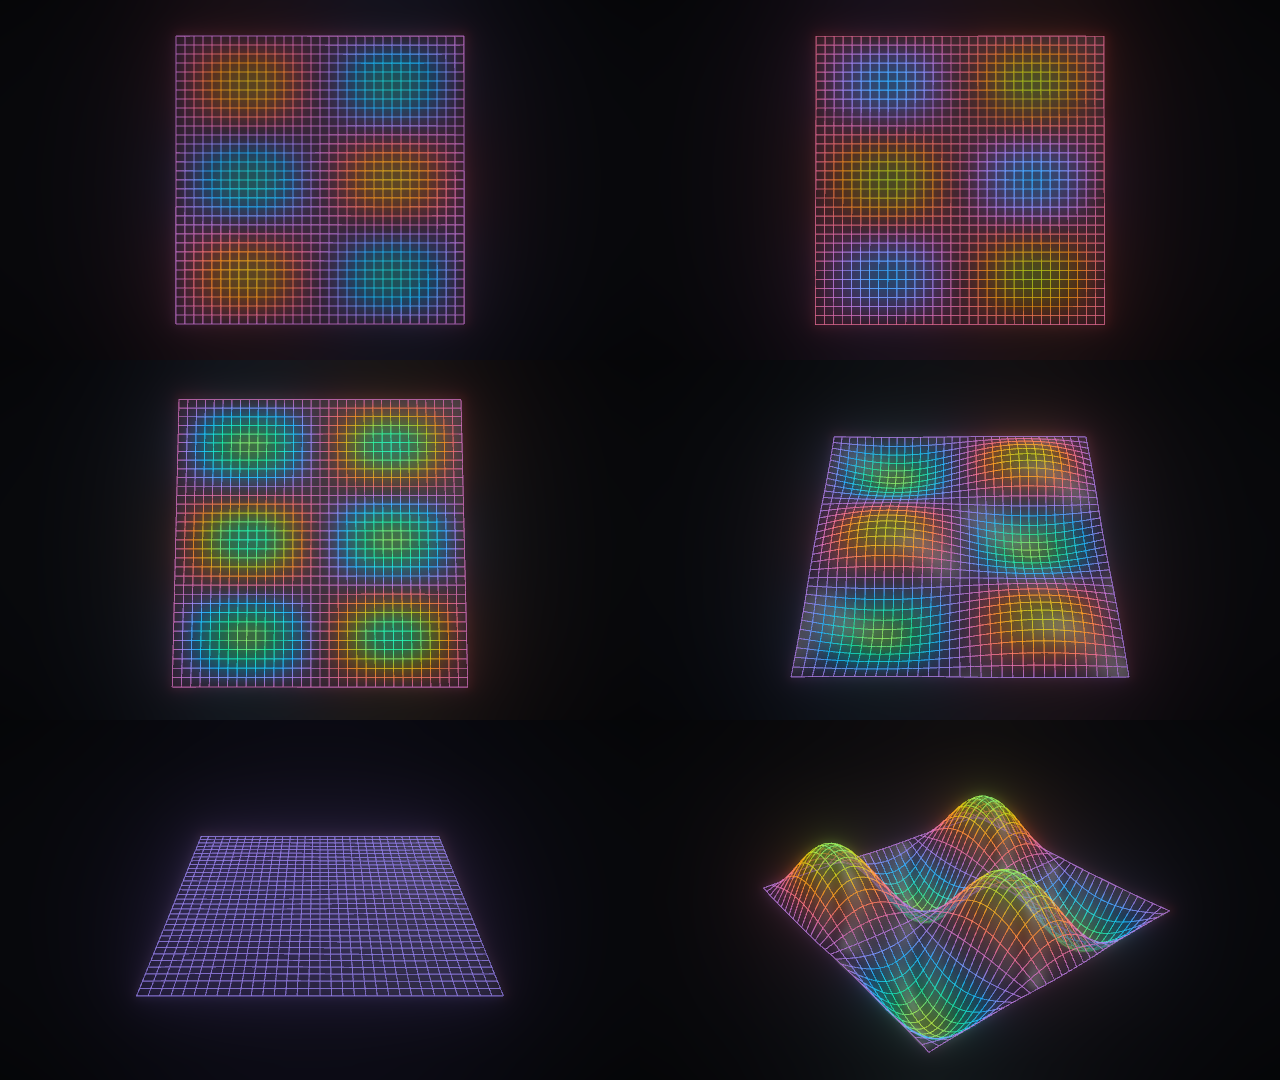
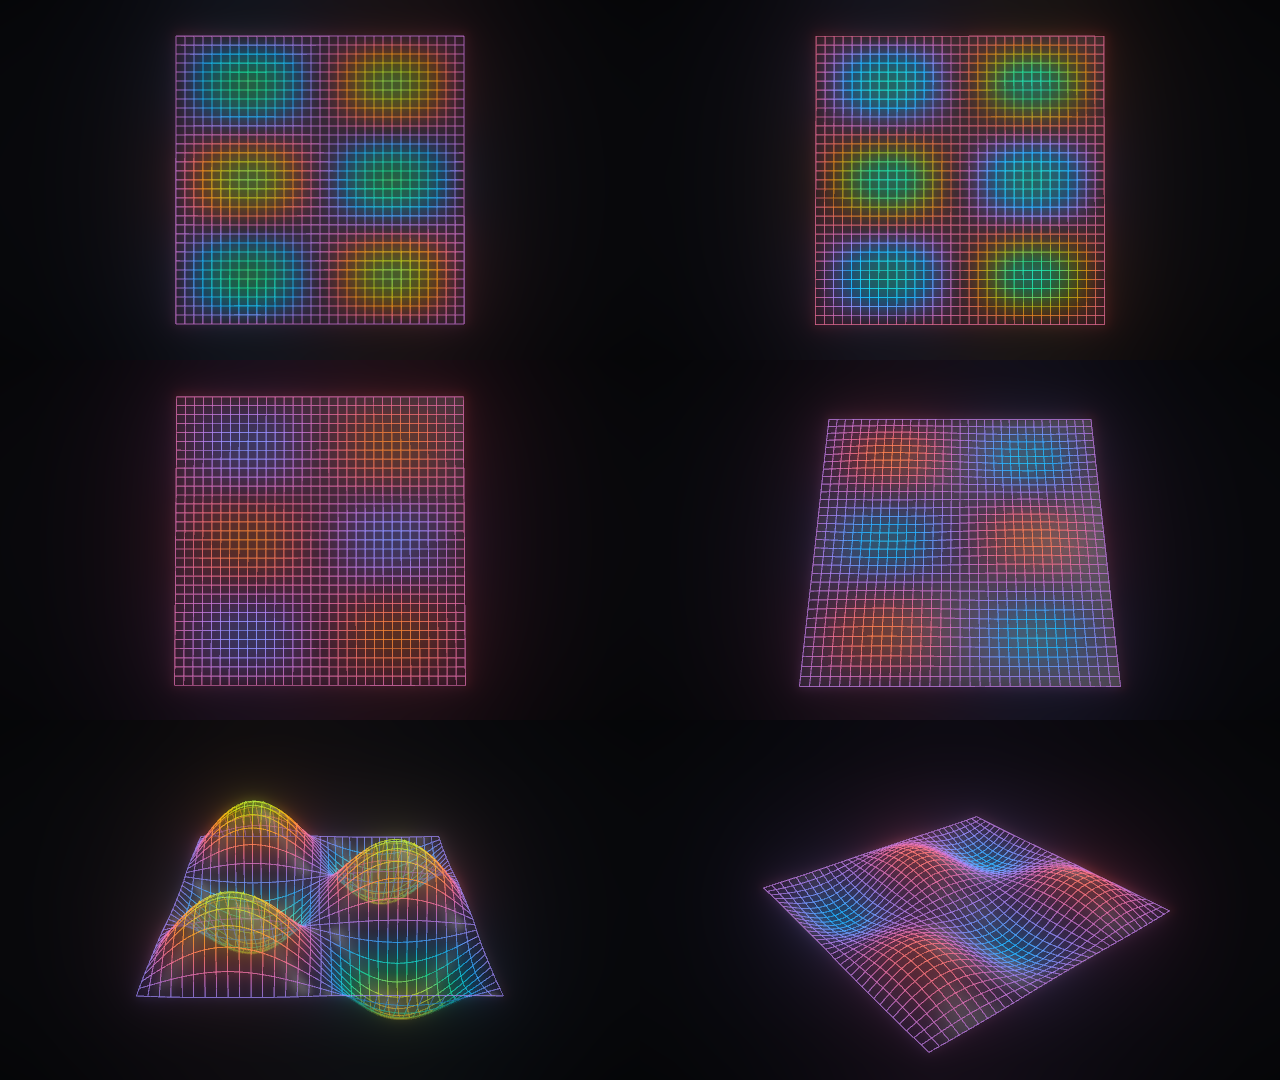
pending/lift_verb.patch: rebuilt on the current head (cue test, focus_pull guard), tested with text_depth.patch on top
Claude-Session: https://claude.ai/code/session_01WVHp9FhWdsavqsAF8EsKV7

diff --git a/pending/README.md b/pending/README.md
@@ -16,10 +16,12 @@ Each change is a patch against the branch it sits on, plus pictures. Apply with
   not move the plane; landing values; `until`; errors; script order). Docs: API.md 3D
   section (a runnable block), MCP.md, llms.txt. `examples/prism_lift.py` uses the verb.
 - Limit: after a lift the distance stays tied to `fov`, so `focus_pull` on that camera
-  cannot animate the distance; zoom by morphing `fov`.
-- Pictures: `lift_verb_before.png` (the example done by hand with `morph`), and
-  `lift_verb_after.png` (with the verb; the drum's phase shifted so it is at full swing as
-  the camera lands). Times 2, 4.5, 6.5/6, 8/7.5, 10, 14 s.
+  refuses with a `VerbError` that says to move `target` and morph `fov`. The cue sheet shows
+  the lift as one cue (`tests/test_cues.py` updated in the patch).
+- Tested together with `text_depth.patch` on top: 155 passed (cues, lift, camera3d, docs,
+  kit, mcp, motion, narration, layers) and `test_final -k "prism_lift or prism_dive"`.
+- Pictures: `lift_verb_before.png` (the example as on the branch: done by hand with
+  `morph`) and `lift_verb_after.png` (with the verb). Times 2, 4.5, 6, 7.5, 10, 14 s.
 
 ## `text_depth.patch`: text no longer cut by the plane it stands on when the camera tilts
 
